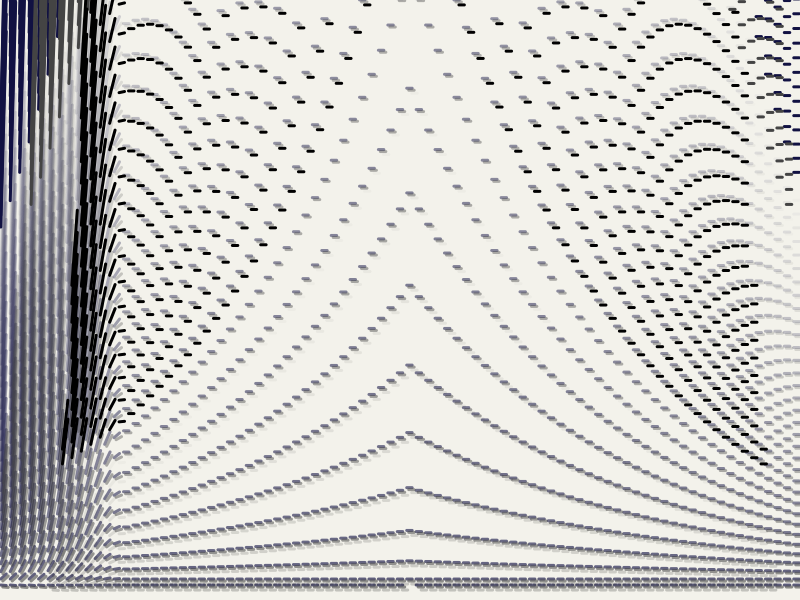
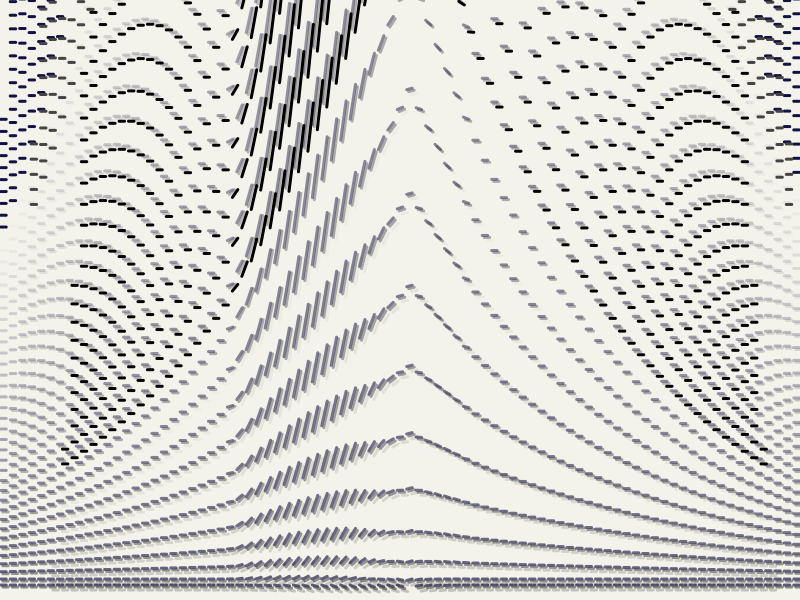
add mouse coords to export

diff --git a/src/export.ts b/src/export.ts
@@ -9,6 +9,9 @@ import('../sketch/sketch').then(({ setup, draw }) => {
     createCanvas(settings.dimensions[0], settings.dimensions[1]);
     setup();
     noLoop();
+    // move mouse to position
+    mouseX = settings.mouse[0];
+    mouseY = settings.mouse[1];
   }
 
   (window as any).draw = () => {

diff --git a/sketch/sketch.ts b/sketch/sketch.ts
@@ -2,6 +2,7 @@ import { em, vh, vw } from "./units";
 
 export const settings = {
   dimensions: [800, 600],
+  mouse: [350, 400],
 }
 
 export function setup() {
